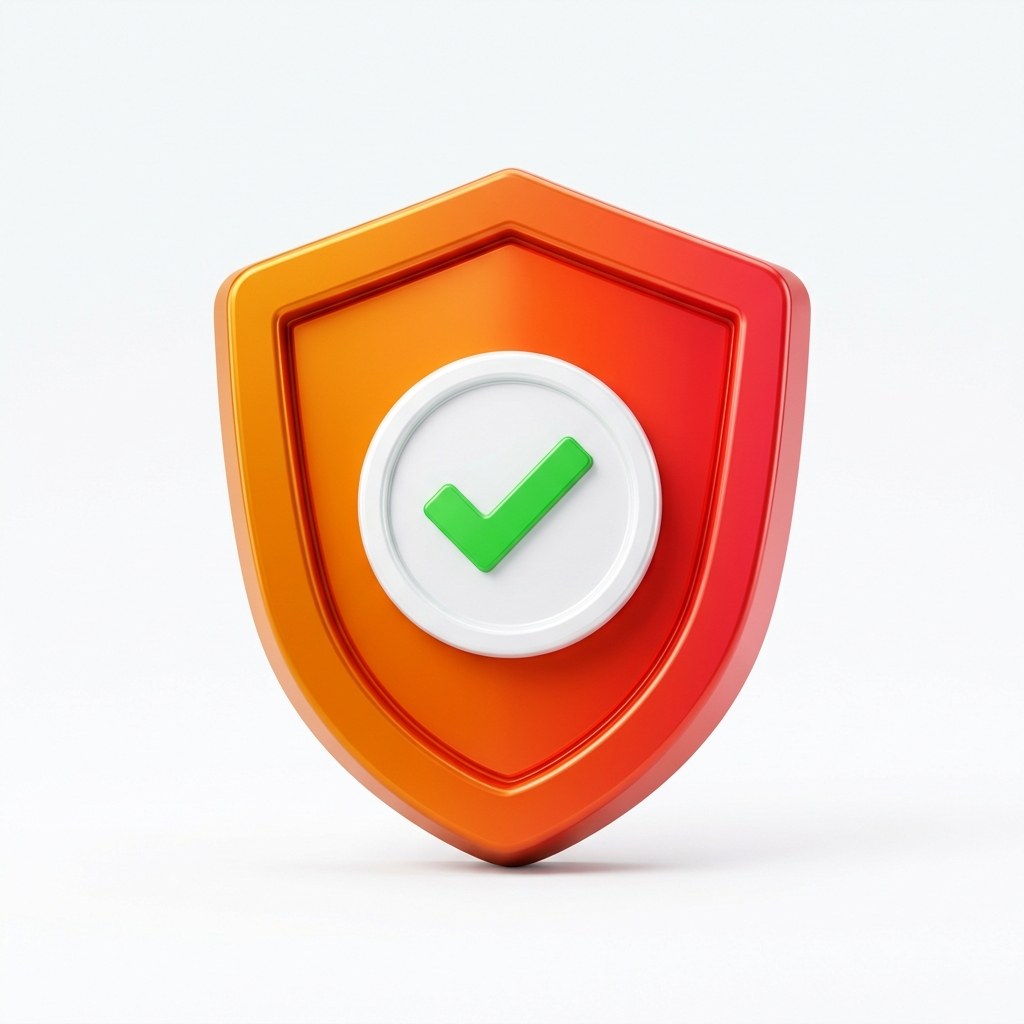
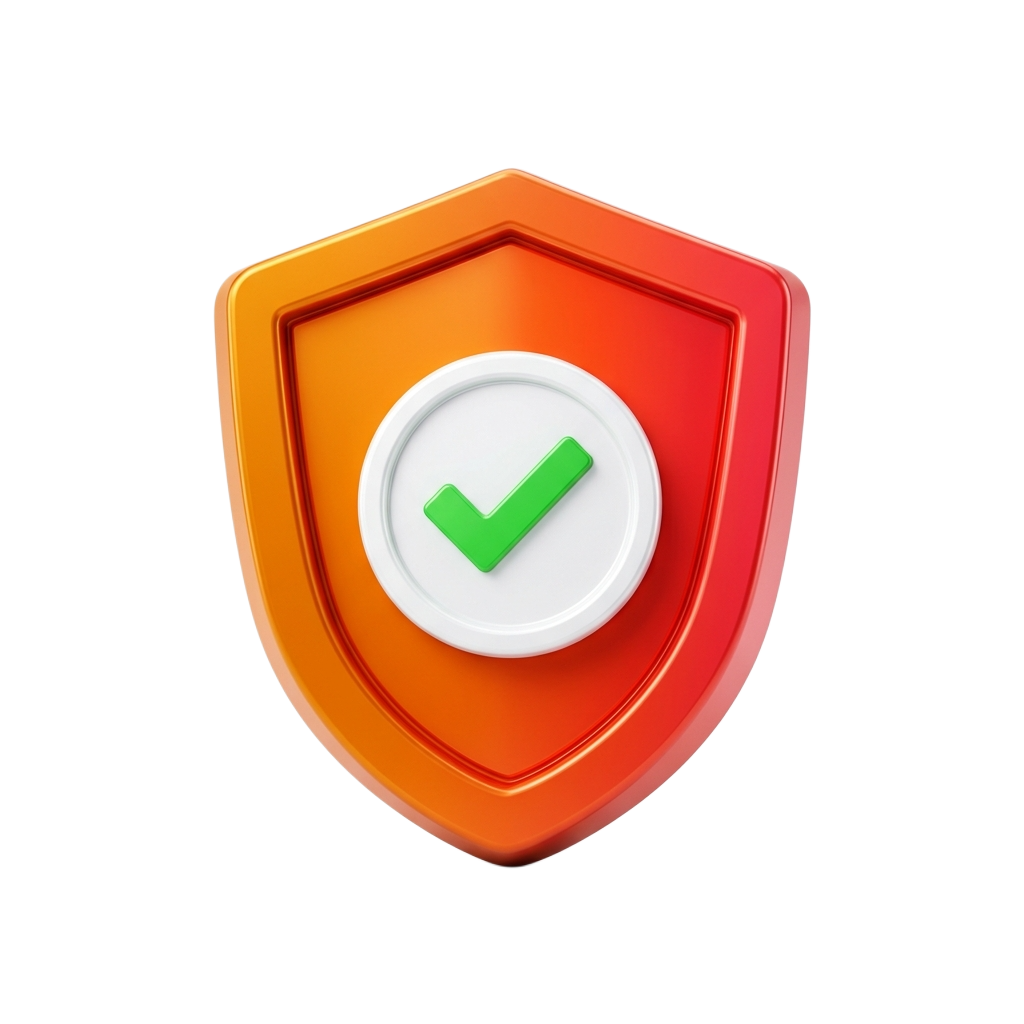
Install expo-font and Google Inter font, configure global component patching for clean app-wide typography

Changed region(s): [[0.375, 0.8125, 0.7188, 0.875]]

diff --git a/mobile/App.js b/mobile/App.js
@@ -1,6 +1,7 @@
 import React, { useState, useEffect, useRef } from 'react';
-import { SafeAreaView, StyleSheet, Animated } from 'react-native';
+import { SafeAreaView, StyleSheet, Animated, Text, TextInput } from 'react-native';
 import { StatusBar } from 'expo-status-bar';
+import { useFonts, Inter_400Regular, Inter_500Medium, Inter_600SemiBold, Inter_700Bold } from '@expo-google-fonts/inter';
 
 // Import Screens
 import SplashScreen from './src/screens/SplashScreen';
@@ -16,9 +17,47 @@ import HomeDashboardScreen from './src/screens/HomeDashboardScreen';
 import ForgotPasswordScreen from './src/screens/ForgotPasswordScreen';
 import ResetPasswordScreen from './src/screens/ResetPasswordScreen';
 
+// Globally monkey-patch Text & TextInput to set Inter Font Family based on fontWeight
+const patchComponentFont = (Component) => {
+  let target = Component;
+  if (Component.type && Component.type.render) {
+    target = Component.type;
+  }
+  if (target && target.render) {
+    const oldRender = target.render;
+    target.render = function (...args) {
+      const origin = oldRender.apply(this, args);
+      const originStyle = StyleSheet.flatten(origin.props.style);
+      
+      let fontFamily = 'Inter-Regular';
+      if (originStyle) {
+        if (originStyle.fontWeight === 'bold' || originStyle.fontWeight === '700') {
+          fontFamily = 'Inter-Bold';
+        } else if (originStyle.fontWeight === '600' || originStyle.fontWeight === '500') {
+          fontFamily = 'Inter-Medium';
+        }
+      }
+
+      return React.cloneElement(origin, {
+        style: [{ fontFamily }, origin.props.style],
+      });
+    };
+  }
+};
+
+patchComponentFont(Text);
+patchComponentFont(TextInput);
+
 export default function App() {
   const [currentScreen, setCurrentScreen] = useState('Splash');
   const [userEmail, setUserEmail] = useState('');
+
+  const [fontsLoaded] = useFonts({
+    'Inter-Regular': Inter_400Regular,
+    'Inter-Medium': Inter_500Medium,
+    'Inter-SemiBold': Inter_600SemiBold,
+    'Inter-Bold': Inter_700Bold,
+  });
 
   const fadeAnim = useRef(new Animated.Value(0)).current;
   const slideAnim = useRef(new Animated.Value(15)).current;
@@ -147,6 +186,10 @@ export default function App() {
         return <GetStartedScreen onLogin={() => setCurrentScreen('Login')} onRegister={() => setCurrentScreen('Register')} />;
     }
   };
+
+  if (!fontsLoaded) {
+    return <SplashScreen onFinish={() => {}} />;
+  }
 
   return (
     <SafeAreaView style={styles.container}>